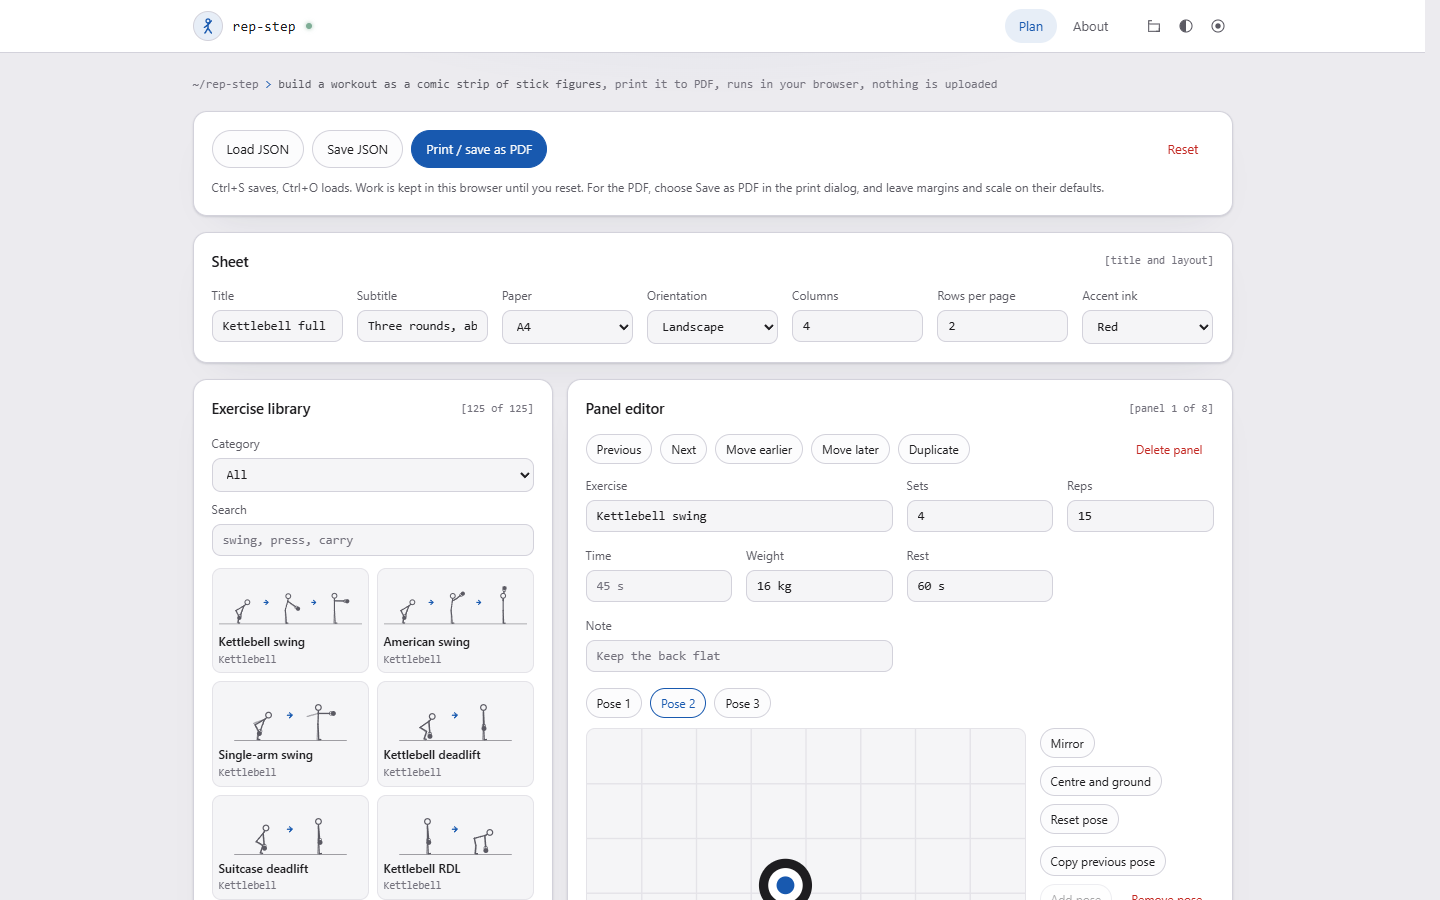
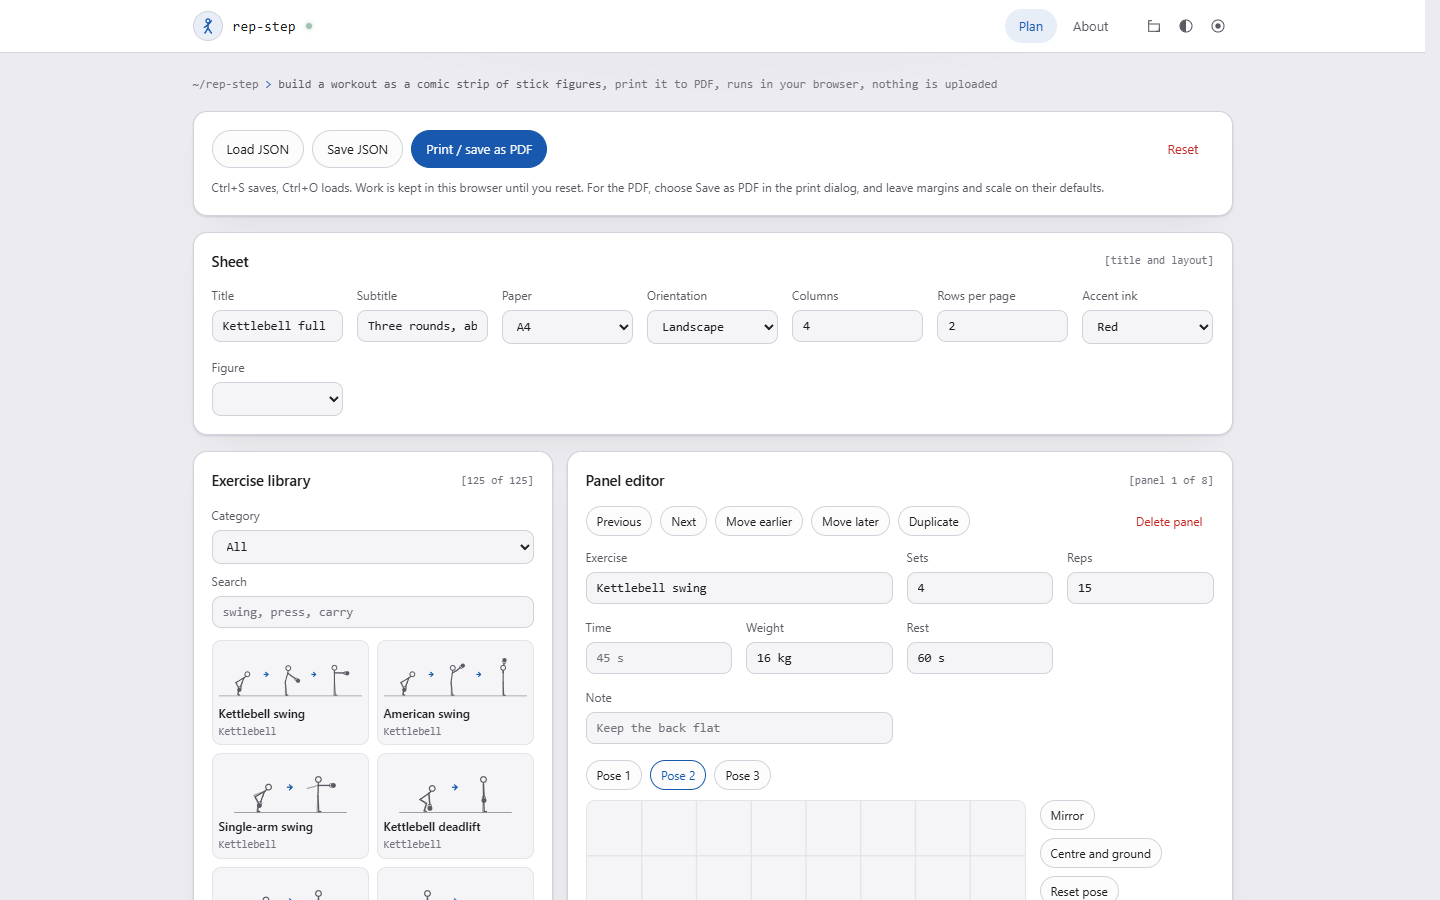
Add an Outline figure style
A Figure setting in the Sheet panel switches the plan between stick figures
and a faceless mannequin outline drawn around the same skeleton. It is saved
with the plan and works for every preset. Thumbnails and the pose editor stay
as sticks so the drag dots sit on the bones.

diff --git a/index.html b/index.html
@@ -1373,6 +1373,7 @@ svg .arr { fill: none; stroke: var(--spot); stroke-width: 3.6; stroke-linecap: r
                 <label class="f">Columns<input type="number" class="field" id="lCols" min="1" max="6" step="1"></label>
                 <label class="f">Rows per page<input type="number" class="field" id="lRows" min="1" max="4" step="1"></label>
                 <label class="f">Accent ink<select class="field" id="lSpot"></select></label>
+                <label class="f">Figure<select class="field" id="lFig"></select></label>
             </div>
         </div>
 
@@ -1464,7 +1465,7 @@ svg .arr { fill: none; stroke: var(--spot); stroke-width: 3.6; stroke-linecap: r
         <div class="panel">
             <div class="panel-head"><h2>About</h2></div>
             <div class="prose">
-                Builds a workout as a comic strip of stick figures, for printing and sticking on a wall. Each
+                Builds a workout as a comic strip of stick figures (or outline figures), for printing and sticking on a wall. Each
                 panel is one exercise with one, two or three poses, plus sets, reps, time, weight and rest.
                 Start from a preset in the library and adjust it, or pose a figure from scratch.
                 Everything runs in this tab. There is no network call and no analytics.
@@ -1523,7 +1524,7 @@ svg .arr { fill: none; stroke: var(--spot); stroke-width: 3.6; stroke-linecap: r
 "use strict";
 
 /* ---------- app identity ---------- */
-const APP = { id: "rep-step", version: "0.2.0", schema: 1 };
+const APP = { id: "rep-step", version: "0.3.0", schema: 1 };
 
 /* ---------- dom helpers ---------- */
 const $  = s => document.querySelector(s);
@@ -2602,13 +2603,117 @@ function drawPose(g, p) {
     p.props.filter(o => HELD.indexOf(o.k) >= 0).forEach(o => drawHeld(g, o, s));
 }
 
+/* ---------- outline figure ----------
+   The same skeleton as the stick figure, wrapped in a faceless mannequin. Each body part is a smooth
+   tapered shape. All the shapes of a group are stroked dark and then painted white on top, so the
+   group reads as one silhouette with a single outline. Far limbs go behind, lighter, and the near arm
+   goes in front with its own edge. Props, scenery and the ground line are drawn exactly as for sticks. */
+const drawOutline = (() => {
+    /* width profiles are [position along the bone 0..1, full width]; torso rows are [along the torso, offset forward of the spine] */
+    const MAN = {
+        thigh: [[0, 12.4], [0.25, 11.8], [0.6, 8.8], [1, 6.8]],
+        shin: [[0, 6.8], [0.22, 7.4], [0.6, 5.2], [1, 3.6]],
+        arm: [[0, 6.0], [0.3, 6.1], [1, 4.8]],
+        fore: [[0, 4.8], [0.2, 5.1], [1, 3.2]],
+        neck: 6.2,
+        front: [[-0.08, 4.2], [0.08, 5.4], [0.28, 5.0], [0.5, 6.4], [0.66, 7.6], [0.84, 6.2], [1.0, 3.6]],
+        back: [[1.0, -4.2], [0.84, -5.8], [0.66, -6.0], [0.45, -5.2], [0.28, -5.0], [0.12, -5.4], [-0.04, -4.8]],
+        bum: [3.2, 5.4]
+    };
+    const OW = 1.1;
+    const sub = (a, b) => [a[0] - b[0], a[1] - b[1]];
+    const add = (a, b) => [a[0] + b[0], a[1] + b[1]];
+    const mul = (a, k) => [a[0] * k, a[1] * k];
+    const dir = (a, b) => unit(b, a);
+    const f2 = q => r1(q[0]) + "," + r1(q[1]);
+
+    function width(prof, t) {
+        for (let i = 0; i < prof.length - 1; i++) {
+            const a = prof[i], b = prof[i + 1];
+            if (t <= b[0]) { const u = (t - a[0]) / ((b[0] - a[0]) || 1); return a[1] + (b[1] - a[1]) * u * u * (3 - 2 * u); }
+        }
+        return prof[prof.length - 1][1];
+    }
+    /* a tapered tube from a to b with a rounded end, as a closed point list */
+    function limb(a, b, prof) {
+        const d = dir(a, b), n = [-d[1], d[0]], N = 12, left = [], right = [];
+        for (let i = 0; i <= N; i++) {
+            const t = i / N, w = width(prof, t) / 2, c = [a[0] + (b[0] - a[0]) * t, a[1] + (b[1] - a[1]) * t];
+            left.push(add(c, mul(n, w))); right.push(sub(c, mul(n, w)));
+        }
+        const w0 = width(prof, 0) / 2, w1 = width(prof, 1) / 2;
+        return { poly: left.concat([add(b, mul(d, w1 * 0.8))], right.reverse(), [sub(a, mul(d, w0 * 0.8))]) };
+    }
+    const disc = (c, r) => ({ c, r });
+    /* closed Catmull-Rom curve through the points, as a cubic Bezier path */
+    function smooth(pts) {
+        const n = pts.length;
+        let d = "M" + f2(pts[0]);
+        for (let i = 0; i < n; i++) {
+            const p0 = pts[(i - 1 + n) % n], p1 = pts[i], p2 = pts[(i + 1) % n], p3 = pts[(i + 2) % n];
+            const c1 = [p1[0] + (p2[0] - p0[0]) / 6, p1[1] + (p2[1] - p0[1]) / 6];
+            const c2 = [p2[0] - (p3[0] - p1[0]) / 6, p2[1] - (p3[1] - p1[1]) / 6];
+            d += "C" + f2(c1) + " " + f2(c2) + " " + f2(p2);
+        }
+        return d + "Z";
+    }
+    function shape(sh, attrs, g) {
+        if (sh.r != null) return svgEl("circle", Object.assign({ cx: r1(sh.c[0]), cy: r1(sh.c[1]), r: sh.r }, attrs), g);
+        return svgEl("path", Object.assign({ d: smooth(sh.poly) }, attrs), g);
+    }
+    function group(g, shapes, extra) {
+        const q = svgEl("g", extra || {}, g);
+        shapes.forEach(sh => shape(sh, { fill: "var(--ink)", stroke: "var(--ink)", "stroke-width": 2 * OW, "stroke-linejoin": "round" }, q));
+        shapes.forEach(sh => shape(sh, { fill: "var(--paper)", stroke: "none" }, q));
+    }
+    const fine = (g, d) => svgEl("path", { d, fill: "none", stroke: "var(--ink)", "stroke-width": 0.7, "stroke-linecap": "round", opacity: "0.8" }, g);
+
+    return function (g, p) {
+        const S = skeleton(p), B = MAN, f = p.f;
+        p.props.filter(o => SCENE.indexOf(o.k) >= 0).forEach(o => drawScene(g, o));
+        const foot = (a, t) => { const d = dir(a, t); return limb(sub(a, mul(d, 1.8)), add(t, mul(d, 3.2)), [[0, 4.8], [0.45, 4.0], [1, 2.2]]); };
+        const hand = (e, h) => { const d = dir(e, h); return limb(sub(h, mul(d, 0.6)), add(h, mul(d, 4.2)), [[0, 3.6], [0.4, 3.9], [1, 2.2]]); };
+        const leg = (k, a, t) => [limb(S.hip, k, B.thigh), limb(k, a, B.shin), foot(a, t), disc(k, B.shin[0][1] / 2 - 0.2), disc(a, B.shin[3][1] / 2 + 0.3)];
+        const arm = (e, h) => [limb(S.sho, e, B.arm), limb(e, h, B.fore), disc(S.sho, B.arm[0][1] / 2), disc(e, B.fore[0][1] / 2 - 0.1), hand(e, h)];
+        group(g, leg(S.lK, S.lA, S.lT).concat(arm(S.lE, S.lH)), { opacity: "0.5" });
+
+        /* torso in its own frame: s runs hip to neck, off is forward of the spine */
+        const u = dir(S.hip, S.neck), n = mul([-u[1], u[0]], f);
+        const at = (s, off) => add(add(S.hip, mul(u, s * L.torso)), mul(n, off));
+        const torso = { poly: B.front.map(r => at(r[0], r[1])).concat(B.back.map(r => at(r[0], r[1])), [at(-0.16, 0)]) };
+
+        /* faceless egg head: a is forward, b is up */
+        const uh = dir(S.neck, S.head), nh = mul([-uh[1], uh[0]], f);
+        const H = (a, b) => add(add(S.head, mul(nh, a)), mul(uh, b - 0.2));
+        const skull = { poly: [[-7.6, 1.0], [-6.9, 6.0], [-2.6, 9.2], [2.8, 9.0], [6.4, 6.0], [7.6, 1.6], [7.6, -2.6], [6.8, -6.2], [4.4, -8.0], [0.4, -6.6], [-3.2, -5.2], [-6.2, -3.2]].map(q => H(q[0], q[1])) };
+        const neck = limb(S.neck, H(-1.4, -4.2), [[0, B.neck - 0.2], [0.5, B.neck - 0.9], [1, B.neck - 0.2]]);
+
+        /* the pelvis frame sits between the torso and the thighs, so the bum stays under the hips whatever the lean */
+        const td = dir(S.hip, S.rK), pu = dir(td, u), pn = mul([-pu[1], pu[0]], f);
+        const bum = disc(add(S.hip, sub(mul(pn, -B.bum[0]), mul(pu, -0.4))), B.bum[1]);
+        group(g, [torso, disc(S.hip, 6.0), bum].concat(leg(S.rK, S.rA, S.rT), [neck, skull]));
+
+        /* clothing: a waistband and a shorts hem */
+        fine(g, "M" + f2(at(0.04, 5.4)) + "Q" + f2(at(0.0, 0)) + " " + f2(at(0.04, -6.4)));
+        const hem = add(S.hip, mul(td, L.th * 0.55)), tn = [-td[1], td[0]];
+        fine(g, "M" + f2(add(hem, mul(tn, 4.4))) + "L" + f2(sub(hem, mul(tn, 4.4))));
+
+        group(g, arm(S.rE, S.rH));
+        p.props.filter(o => HELD.indexOf(o.k) >= 0).forEach(o => drawHeld(g, o, S));
+    };
+})();
+
+/* The figure style is a sheet setting. Thumbnails and the editor always draw sticks, so the drag dots sit on the bones. */
+const FIGURES = [["stick", "Stick figure"], ["outline", "Outline"]];
+function drawFigure(g, p, fig) { (fig === "outline" ? drawOutline : drawPose)(g, p); }
+
 /* A whole panel: its poses side by side on one ground line, with arrows between. */
-function strip(panel, cls) {
+function strip(panel, cls, fig) {
     const n = panel.poses.length;
     const svg = svgEl("svg", { viewBox: "0 0 " + (CELL * n) + " " + CELL, class: cls || "strip", "aria-hidden": "true" });
     if (panel.ground) svgEl("line", { class: "gl", x1: 0, y1: GROUND, x2: CELL * n, y2: GROUND }, svg);
     panel.poses.forEach((p, i) => {
-        drawPose(svgEl("g", { transform: "translate(" + (CELL * i) + " 0)" }, svg), p);
+        drawFigure(svgEl("g", { transform: "translate(" + (CELL * i) + " 0)" }, svg), p, fig);
         if (i < n - 1) {
             const bx = CELL * (i + 1);
             svgEl("path", { class: "arr", d: "M" + (bx - 9) + " 78H" + (bx + 5) + "M" + (bx - 3) + " 71L" + (bx + 5) + " 78L" + (bx - 3) + " 85" }, svg);
@@ -2658,7 +2763,7 @@ function blankState() {
         schema: APP.schema,
         app: APP.id,
         meta: { title: "", subtitle: "", date: today() },
-        layout: { paper: "a4", orient: "landscape", cols: 4, rows: 2, spot: "red" },
+        layout: { paper: "a4", orient: "landscape", cols: 4, rows: 2, spot: "red", figure: "stick" },
         panels: []
     };
 }
@@ -2704,6 +2809,7 @@ function cleanState(d) {
     s.layout.cols = Math.round(num(lo.cols, 1, 6, s.layout.cols));
     s.layout.rows = Math.round(num(lo.rows, 1, 4, s.layout.rows));
     if (has(SPOTS, lo.spot)) s.layout.spot = lo.spot;
+    if (FIGURES.some(r => r[0] === lo.figure)) s.layout.figure = lo.figure;
     s.panels = (Array.isArray(d.panels) ? d.panels : []).slice(0, 60).map(cleanPanel);
     return s;
 }
@@ -2828,7 +2934,7 @@ function buildCell(p, i, span) {
     c.setAttribute("aria-label", "Panel " + (i + 1) + ", " + (p.name || "untitled") + ". Select to edit.");
     const cap = el("div", "cap");
     cap.append(el("span", "num", String(i + 1)), el("span", "nm", p.name || "Untitled"));
-    c.append(cap, strip(p, "strip"));
+    c.append(cap, strip(p, "strip", state.layout.figure));
     const ch = stats(p);
     if (ch.length) {
         const row = el("div", "chips");
@@ -3107,9 +3213,10 @@ $("#btnBlank").addEventListener("click", () => {
 
 /* ---------- sheet settings ---------- */
 (() => {
-    const paper = $("#lPaper"), orient = $("#lOrient"), spot = $("#lSpot");
+    const paper = $("#lPaper"), orient = $("#lOrient"), spot = $("#lSpot"), fig = $("#lFig");
     Object.keys(PAPER).forEach(k => { const o = el("option", null, PAPER[k][0]); o.value = k; paper.append(o); });
     Object.keys(SPOTS).forEach(k => { const o = el("option", null, SPOTS[k][0]); o.value = k; spot.append(o); });
+    FIGURES.forEach(r => { const o = el("option", null, r[1]); o.value = r[0]; fig.append(o); });
     paper.addEventListener("change", () => { state.layout.paper = paper.value; changed(); });
     orient.addEventListener("change", () => {
         state.layout.orient = orient.value;
@@ -3119,6 +3226,7 @@ $("#btnBlank").addEventListener("click", () => {
         changed();
     });
     spot.addEventListener("change", () => { state.layout.spot = spot.value; changed(); });
+    fig.addEventListener("change", () => { state.layout.figure = fig.value; changed(); });
     [["lCols", "cols", 1, 6], ["lRows", "rows", 1, 4]].forEach(([id, k, lo, hi]) =>
         $("#" + id).addEventListener("input", e => {
             if (e.target.value === "") return;
@@ -3139,6 +3247,7 @@ function render() {
     $("#lCols").value = state.layout.cols;
     $("#lRows").value = state.layout.rows;
     $("#lSpot").value = state.layout.spot;
+    $("#lFig").value = state.layout.figure;
     if (ui.pi >= state.panels.length) ui.pi = Math.max(0, state.panels.length - 1);
     renderEditor();
     renderSheets();

diff --git a/README.md b/README.md
@@ -14,8 +14,16 @@ The sheet that prints, page 1 of a two page plan (A4 landscape, four columns, tw
 
 1. Pick an exercise from the library to add a panel, or add a blank one.
 2. Select a panel (click it in the preview) and edit its text, poses and props.
-3. Set paper, orientation, columns and rows per page in the Sheet panel.
+3. Set paper, orientation, columns and rows per page, and the figure style, in the Sheet panel.
 4. Print, and choose Save as PDF as the destination.
+
+## Figures
+
+The Figure setting in the Sheet panel switches the whole plan between two styles. **Stick figure** is the default. **Outline** draws a faceless mannequin in shorts around the same skeleton, so every preset and every pose you have made works in both without any change. The choice is saved with the plan.
+
+![Page 1 of the same plan with the Outline figure](docs/screenshot-outline.png)
+
+The library thumbnails and the pose editor always show sticks, so the drag dots sit on the bones. The outline is for the sheet and the print.
 
 ## Posing
 
@@ -61,7 +69,7 @@ Panels are placed left to right. If the next panel will not fit in the row, the 
 
 ## Known gaps
 
-- Figures are flat 2D. There is no depth, so a front view and a side view are both just angles on the same skeleton.
+- Figures are flat 2D. There is no depth, so a front view and a side view are both just angles on the same skeleton. The outline figure is a side view only, and its face is blank.
 - The torso is one rigid bone, so poses that bend or twist the spine (cat-cow, spinal twists) cannot be drawn, and a kettlebell always sits in line with the forearm, so it cannot hang straight down from raised hands. High pull and upright row finish with the hands at the chest rather than touching the chin for that reason.
 - Posing is by dragging only. The dots have no keyboard control yet.
 - There is no undo. Reset pose and Copy previous pose are the way back.
